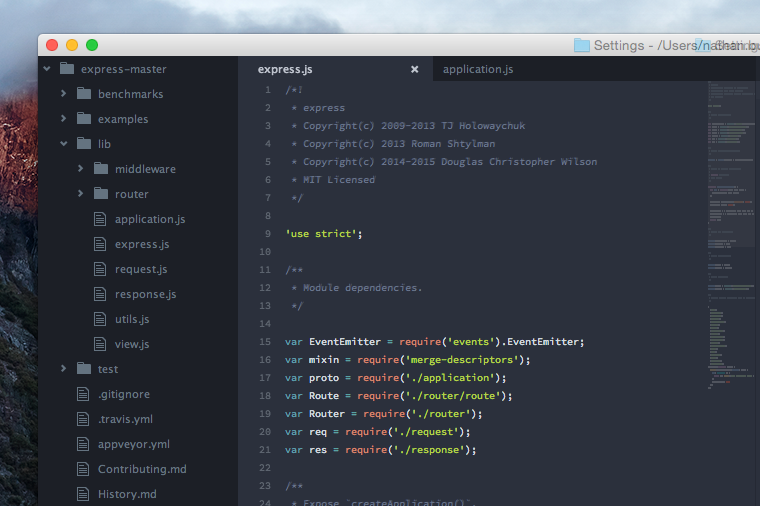
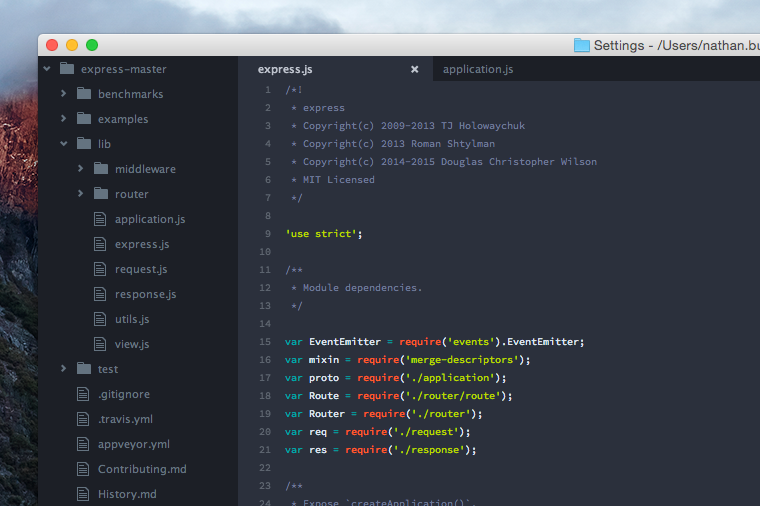
Update screenshots

diff --git a/README.md b/README.md
@@ -1,6 +1,6 @@
 # Spacegray Dark Neue UI theme
 
-A better port of the [Spacegray](http://kkga.github.io/spacegray) Sublime theme by Gadzhi Kharkharov.
+A better port of the [Spacegray](http://kkga.github.io/spacegray) Sublime theme by Gadzhi Kharkharov. Syntax theme in screenshots: [Peacocks in Space](https://atom.io/themes/peacocks-in-space-syntax)
 
 
 
